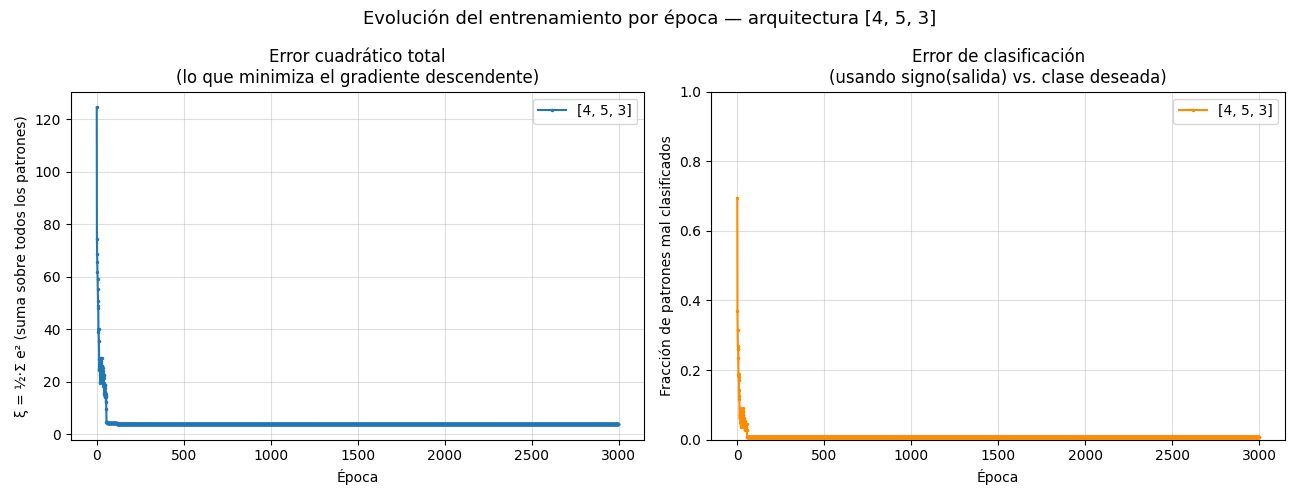
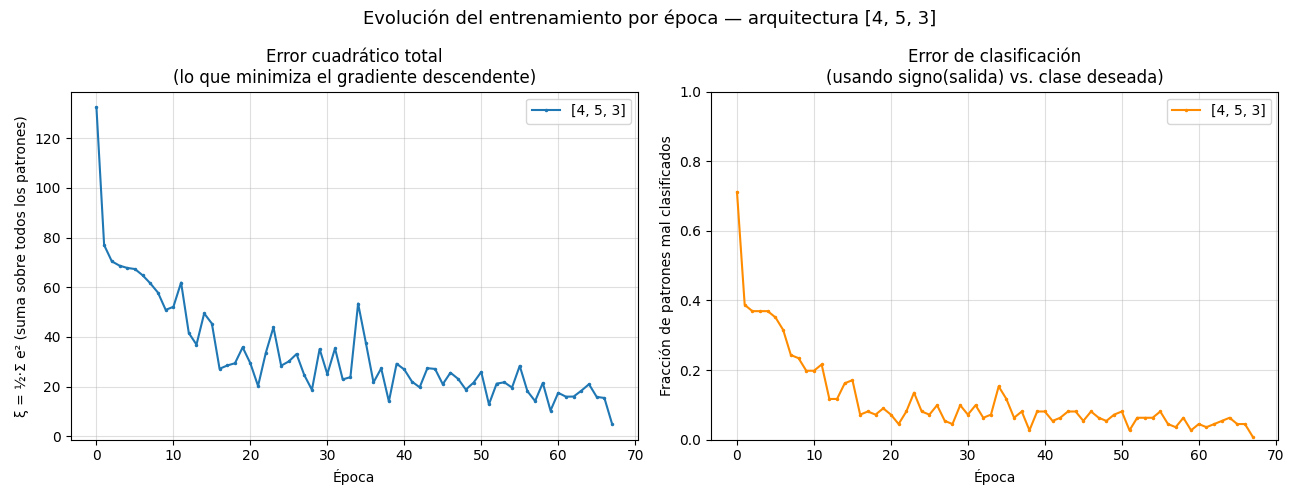
Realizo cambios para obtener resultados mas reales

diff --git a/Tema 1 Redes neuronales/Perceptrón multicapa/ej3.py b/Tema 1 Redes neuronales/Perceptrón multicapa/ej3.py
@@ -215,7 +215,7 @@ def Ejercicio3(capas, ruta_train, ruta_test, vel_aprendizaje, max_epocas, err_um
 
         print(f"Época {epoca}: xi = {error_epoca}, error_clasif = {historial_error_clasif[-1]:.3f}")
 
-        if tasa_aciertos >= 1.0 or error_epoca < err_umbral:
+        if tasa_aciertos >= 0.99 or error_epoca < err_umbral:
             print(f"Convergencia alcanzada en la época {epoca}. Error: {error_epoca}")
             break
     else:
@@ -229,7 +229,7 @@ def Ejercicio3(capas, ruta_train, ruta_test, vel_aprendizaje, max_epocas, err_um
 arquitecturas = [[4, 3, 3], [4, 5, 3], [4, 8, 3], [4, 5, 5, 3]]
 
 for capas in arquitecturas:
-    w, hist_xi, hist_err = Ejercicio3(capas, 'iris81_trn.csv', 'iris81_tst.csv', 0.1, 3000, 0.05, sigmoide)
+    w, hist_xi, hist_err = Ejercicio3(capas, 'iris81_trn.csv', 'iris81_tst.csv', 0.1, 3000, 0.01, sigmoide)
 
     print(f"Pesos finales ({capas}):")
     for i, wp in enumerate(w):
